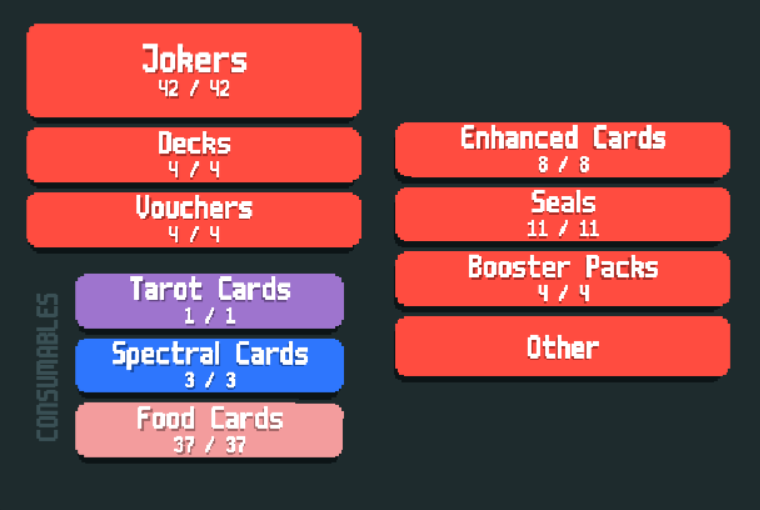
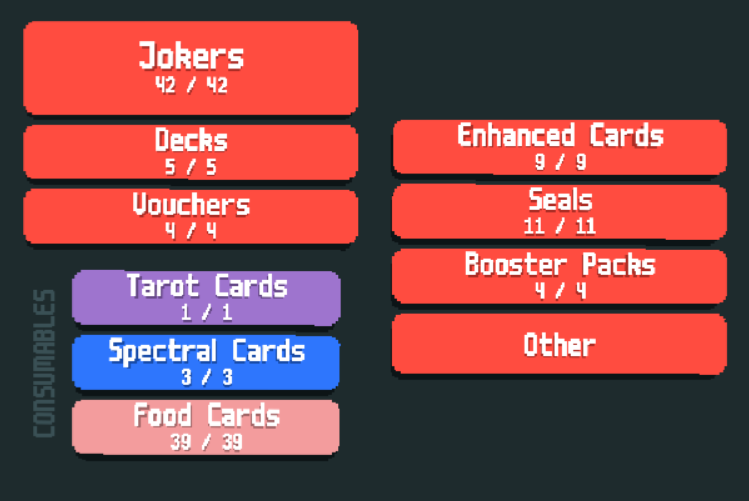
Update ReadMe

Changed region(s): [[0.0307, 0.0299, 0.4913, 0.9281], [0.522, 0.2395, 0.9826, 0.7485], [0.4606, 0.3892, 0.4913, 0.479]]

diff --git a/README.md b/README.md
@@ -31,8 +31,8 @@
     <li>31 Foods (+7 Cross-Mod)</li>
     <li>11 Seals</li>
     <li>9+ Enhancements</li>
+    <li>5 Decks</li>
     <li>4 Booster Packs</li>
-    <li>4 Decks</li>
     <li>4 Vouchers</li>
     <li>3 Spectral</li>
     <li>2 Sleeves (Cross-Mod)</li>
